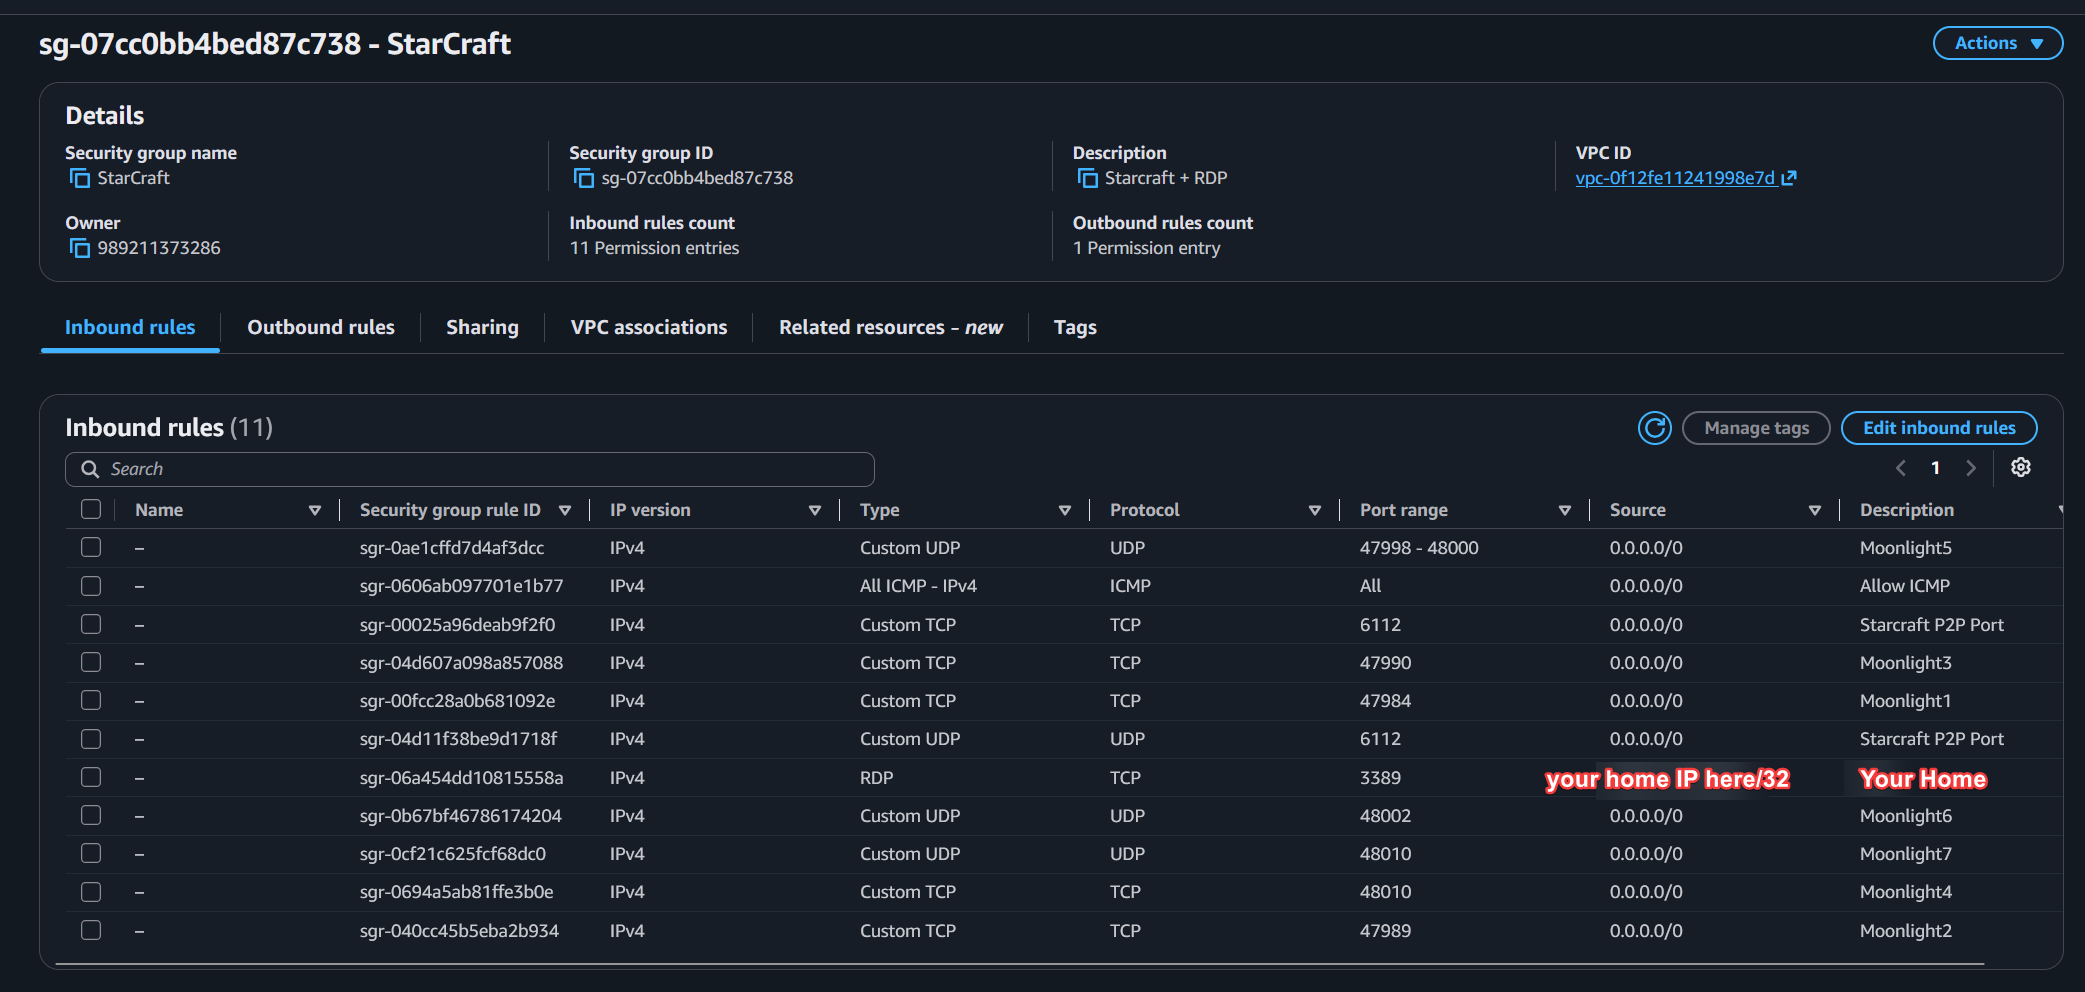
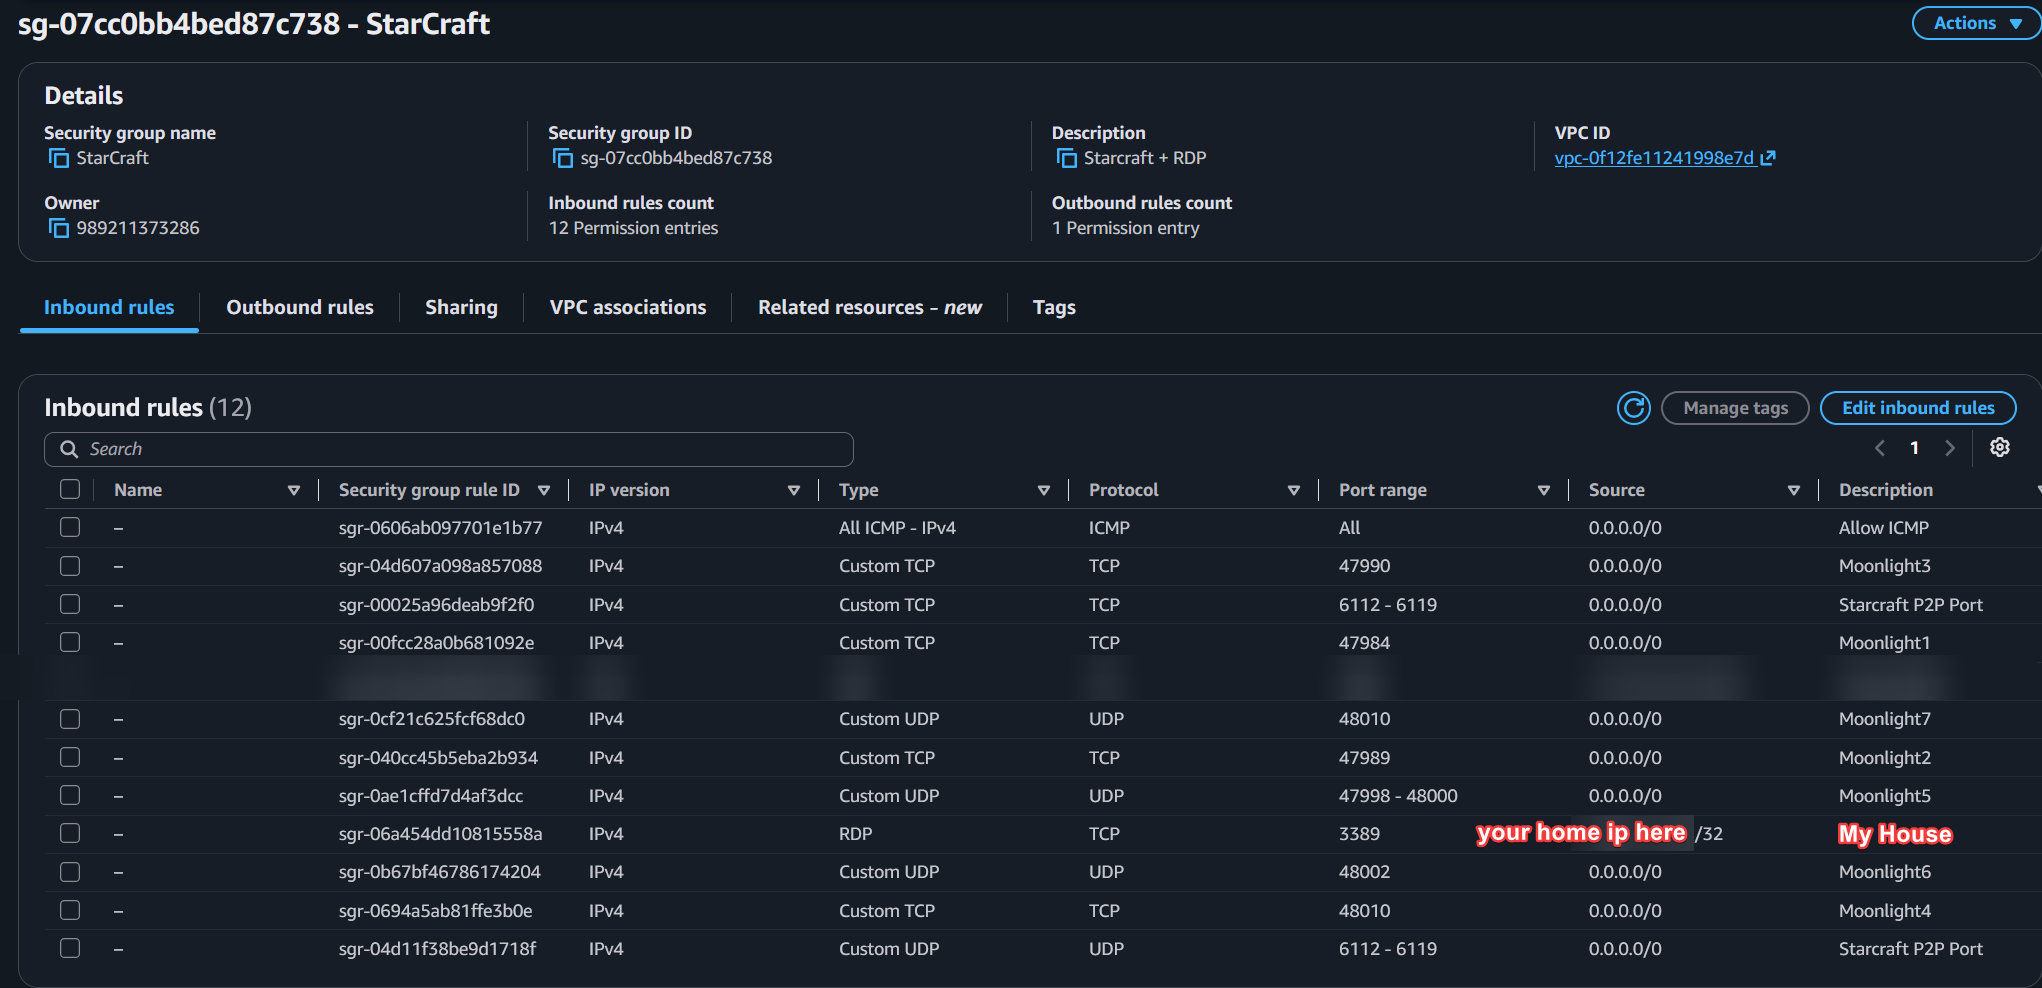
updated starcraft ports to include 6112-6119

diff --git a/aws-for-KR-servers/README.md b/aws-for-KR-servers/README.md
@@ -21,9 +21,10 @@ Since Starcraft is P2P the Koreans won't experience lag from your KR virtual mac
 
 # How much does it cost?
 - Storage costs about $4/mo at 50GB. This is the minimum amount you pay when the machine is off
-- The actual machine when you turn it on, g4dn.xlarge, is charged per hour only while it's running. In Seoul with the Windows license it's roughly $0.65/hour. Check the [EC2 On-Demand pricing page](https://aws.amazon.com/ec2/pricing/on-demand/) with the region set to `Asia Pacific (Seoul)` and the OS set to `Windows` for the current price.
+- The actual machine when you turn it on, g4dn.xlarge, is charged per hour only while it's running. In Seoul with the Windows license it's roughly $0.80/hour. Check the [EC2 On-Demand pricing page](https://aws.amazon.com/ec2/pricing/on-demand/) with the region set to `Asia Pacific (Seoul)` and the OS set to `Windows` for the current price.
 - Streaming video out of AWS counts as data transfer. The first 100GB per month is free, after that it's about $0.12/GB. Keeping the Moonlight bitrate around 10 Mbps (about 4.5GB per hour) is plenty for Starcraft and keeps this cheap.
 - Unlike the easier [Nvidia Geforce Now method](https://github.com/StarWhiz/starcraft-srd-3kingdoms-guide/tree/main/geforcenow-for-KR-servers). The servers are actually in Seoul not Tokyo
+- Another advantage is being able to host games.
 - And you can port forward to host games
 
 > [!TIP]
@@ -58,8 +59,8 @@ The security group is the firewall that decides which ports on your EC2 can be r
 | Type | Protocol | Port range | Source | Description |
 |---|---|---|---|---|
 | RDP | TCP | 3389 | My IP | Your Home |
-| Custom TCP | TCP | 6112 | Anywhere-IPv4 (0.0.0.0/0) | Starcraft P2P Port |
-| Custom UDP | UDP | 6112 | Anywhere-IPv4 (0.0.0.0/0) | Starcraft P2P Port |
+| Custom TCP | TCP | 6112 - 6119 | Anywhere-IPv4 (0.0.0.0/0) | Starcraft P2P Port |
+| Custom UDP | UDP | 6112 - 6119 | Anywhere-IPv4 (0.0.0.0/0) | Starcraft P2P Port |
 | All ICMP - IPv4 | ICMP | All | Anywhere-IPv4 (0.0.0.0/0) | Allow ICMP |
 | Custom TCP | TCP | 47984 | Anywhere-IPv4 (0.0.0.0/0) | Moonlight1 |
 | Custom TCP | TCP | 47989 | Anywhere-IPv4 (0.0.0.0/0) | Moonlight2 |
@@ -77,6 +78,7 @@ When you're done it should look like this:
 
 > [!NOTE]
 > - Choosing **My IP** for RDP fills in your home IP with `/32` at the end. Only your home can Remote Desktop into the machine. If your home IP ever changes, come back here and edit that rule.
+> - Starcraft uses port 6112 by default. Blizzard recommends opening 6112 - 6119 so the game has fallback ports if 6112 is busy.
 > - Port 47990 is the Vibeshine web admin page. If you want to be extra safe, set its Source to **My IP** too. Once you're on Tailscale you don't need it open to the internet at all.
 
 # Step 3. Create an IAM Role for the NVIDIA Driver Download
@@ -205,7 +207,7 @@ Vibeshine is an AI enhanced version of Sunshine, the Moonlight server. It handle
 ### Install Battle.net + Starcraft
 - Download Battle.net from https://download.battle.net and install it
 - Log in and install StarCraft: Remastered
-- The first time you launch Starcraft, Windows Firewall will pop up. Click **Allow access** so other players can connect to you on port 6112.
+- The first time you launch Starcraft, Windows Firewall will pop up. Click **Allow access** so other players can connect to you on ports 6112 - 6119.
 
 ### Install Tailscale
 Tailscale makes a private network between your main computer and the EC2. It gives the EC2 an IP that never changes, and it improves delay a lot (USA to KR improved a lot for me).
